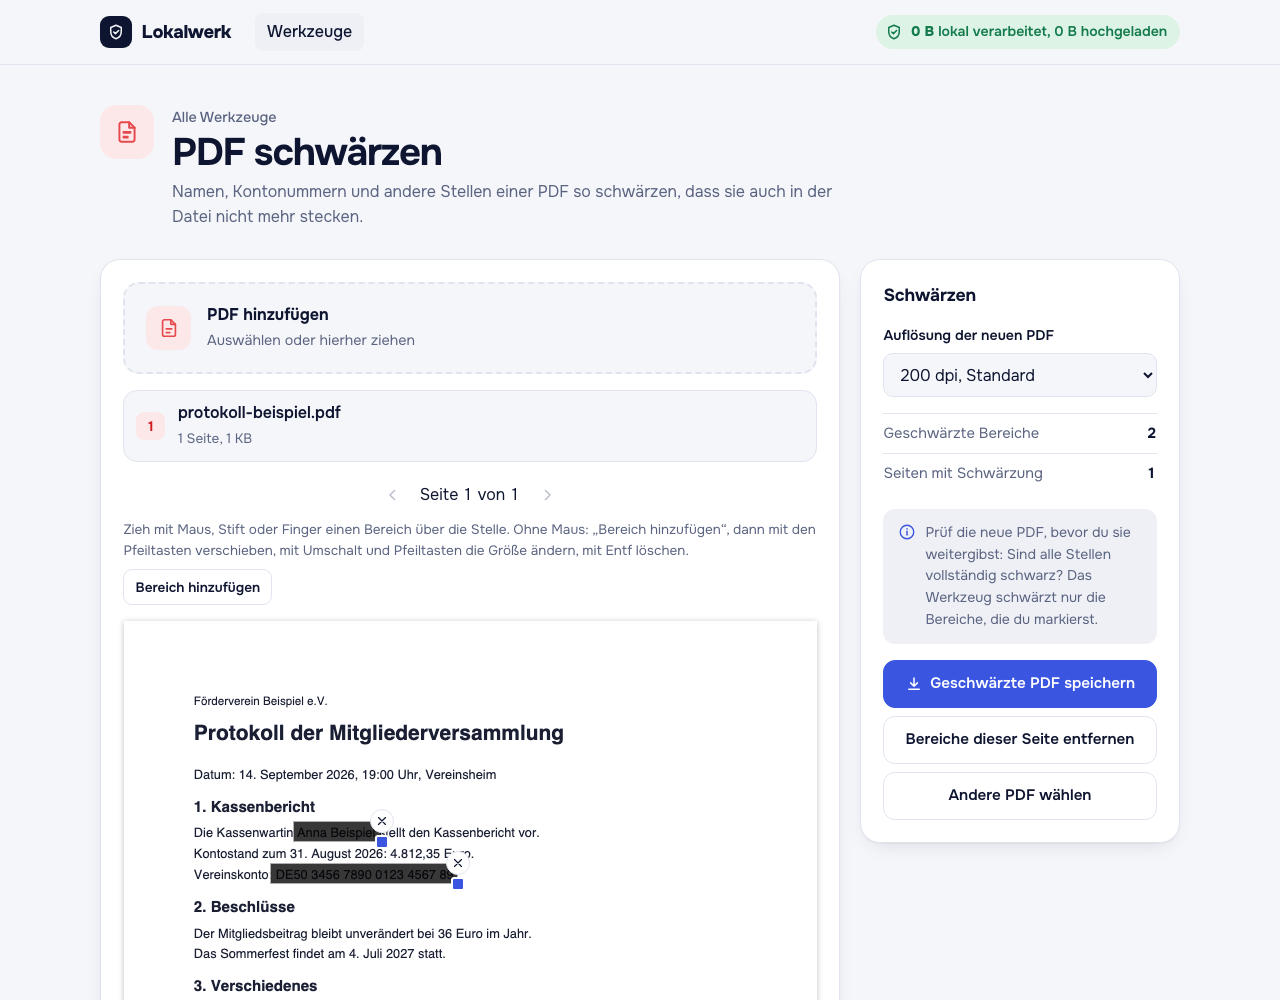
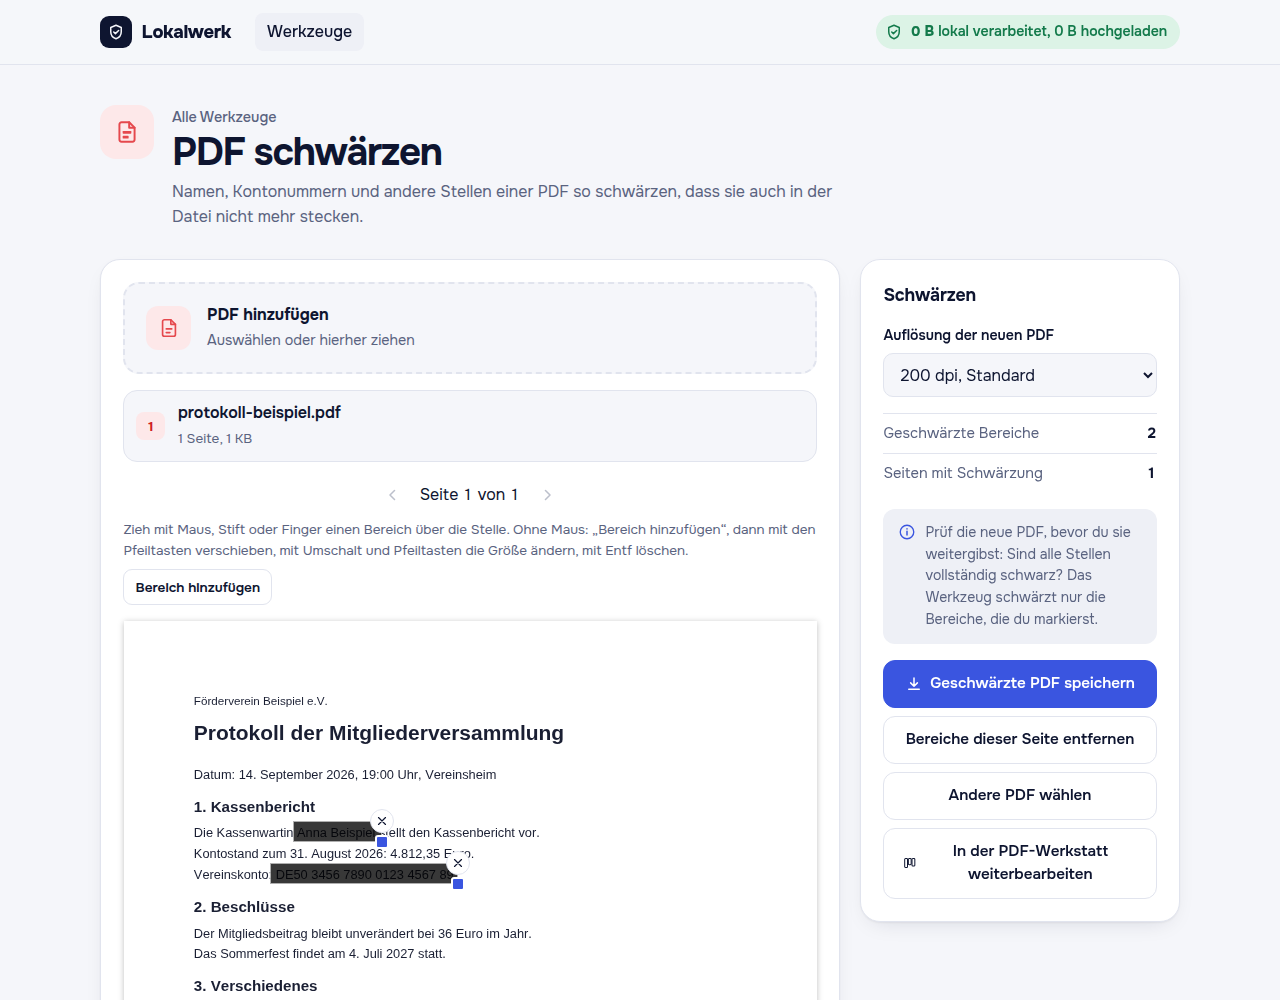
README: PDF-Werkstatt als Hauptwerkzeug, Screenshots erneuert
Neue Aufnahme der PDF-Werkstatt an erster Stelle im Abschnitt Screenshots,
hell und dunkel: drei Dokumente nebeneinander (Beispiel-PDFs aus dem Skript),
Umschalt-Auswahl von Seite 3 im Mietvertrag bis Seite 2 der Anlagen.
Startseite, /werkzeuge/ und PDF schwärzen neu aufgenommen (Karte der
Werkstatt, Knopf zur Werkstatt); die übrigen Bilder bleiben unverändert.
Größen wie bisher: 1280 px breit, einfache Pixeldichte, PNG.

screenshots.mjs bestätigt die Warnung beim Verlassen der Werkstatt wie das
Leistungsskript; chrome.mjs bekommt einen Klick mit Umschalt.

Claude-Session: https://claude.ai/code/session_01RTJKHEUfQYsWeNYKSB1B31

diff --git a/README.md b/README.md
@@ -2,10 +2,10 @@
 
 <picture>
   <source media="(prefers-color-scheme: dark)" srcset="docs/screenshots/startseite-dunkel.png">
-  <img src="docs/screenshots/startseite-hell.png" alt="Lokalwerk home page: headline &quot;Dateien bearbeiten, ohne sie hochzuladen.&quot; (edit files without uploading them), a drop zone for PDF, photo or Excel files, and a green badge &quot;0 B lokal verarbeitet, 0 B hochgeladen&quot; in the header" width="1280">
+  <img src="docs/screenshots/startseite-hell.png" alt="Lokalwerk home page: headline &quot;Dateien bearbeiten, ohne sie hochzuladen.&quot; (edit files without uploading them), a drop zone for PDF, photo or Excel files, a green badge &quot;0 B lokal verarbeitet, 0 B hochgeladen&quot; in the header, and the PDF workshop as a highlighted card above the tools" width="1280">
 </picture>
 
-Lokalwerk is a German-language website with 32 tools for everyday files: PDFs, photos, spreadsheets and address lists, SEPA payments, and a few small utilities. It is aimed at small businesses, freelancers, associations and administrations in Germany, Austria and Switzerland.
+Lokalwerk is a German-language website with 33 tools for everyday files: PDFs, photos, spreadsheets and address lists, SEPA payments, and a few small utilities. It is aimed at small businesses, freelancers, associations and administrations in Germany, Austria and Switzerland.
 
 **Core principle: every tool runs entirely in the browser. No file ever leaves the device.** There is no backend, no database, no account, no tracking and no cookies. After a tool page has loaded, it works offline.
 
@@ -25,7 +25,9 @@ The promise is backed by mechanisms that fail the build or block the browser, no
 
 ## Tools
 
-**PDF (12):** merge PDFs · split PDF · edit PDF pages (rotate, reorder, delete) · PDF to images · redact PDF (pages are rasterised, nothing of the original remains) · insert signature (as an image; not an electronic signature) · fill PDF forms · page numbers · stamp and watermark · remove PDF metadata · images to PDF · scan a document (camera via the file picker, four-corner perspective correction)
+**PDF workshop:** the main tool. Several PDFs and images open side by side, one column per document. Pages can be selected across documents (click, Shift and Ctrl/Cmd like a file manager), moved and copied between documents by dragging or with the keyboard, rotated, duplicated and deleted; blank pages can be inserted, documents split and merged. Every step can be undone. Documents are only lists of page references, so the loaded files are never changed; real PDFs are assembled in a Web Worker on export (one document, the selection, or all documents as ZIP). An unchanged document is saved as the original file. Every PDF tool below offers to continue in the workshop without reloading, with the file kept in memory.
+
+**PDF (12 more):** merge PDFs · split PDF · edit PDF pages (rotate, reorder, delete) · PDF to images · redact PDF (pages are rasterised, nothing of the original remains) · insert signature (as an image; not an electronic signature) · fill PDF forms · page numbers · stamp and watermark · remove PDF metadata · images to PDF · scan a document (camera via the file picker, four-corner perspective correction)
 
 **Photos and images (6):** resize photos · show and remove photo metadata · crop and rotate · pixelate faces and number plates (large blocks, no blur) · ID card copy (redaction and a permanent "KOPIE" overlay) · convert image format (JPEG, PNG, WebP)
 
@@ -37,14 +39,21 @@ The promise is backed by mechanisms that fail the build or block the browser, no
 
 ## Screenshots
 
-All screenshots show the German interface with example data from the project. They follow the viewer's light or dark mode on GitHub. The bank details are example numbers (see [`docs/beispiel-ibans.md`](docs/beispiel-ibans.md)); the landscape photos are drawn by the screenshot script itself.
+All screenshots show the German interface with example data from the project. They follow the viewer's light or dark mode on GitHub. The bank details are example numbers (see [`docs/beispiel-ibans.md`](docs/beispiel-ibans.md)); the sample PDFs and landscape photos are generated by the screenshot script itself.
+
+<picture>
+  <source media="(prefers-color-scheme: dark)" srcset="docs/screenshots/pdf-werkstatt-dunkel.png">
+  <img src="docs/screenshots/pdf-werkstatt-hell.png" alt="PDF workshop with three documents side by side (a tenancy agreement with 5 pages, attachments with 3 pages including a landscape page, an invoice with 2 pages); pages 3 to 5 of the agreement and pages 1 and 2 of the attachments are selected, and the overview on the right reads &quot;5 Seiten aus 2 Dokumenten&quot; (5 pages from 2 documents)" width="1280">
+</picture>
+
+The PDF workshop: each document is a column, and a Shift-click range runs across document boundaries, here from page 3 of the agreement to page 2 of the attachments. The coloured badges (A, B, C) show which file each page comes from, so mixed documents stay readable.
 
 <picture>
   <source media="(prefers-color-scheme: dark)" srcset="docs/screenshots/werkzeuge-suche-dunkel.png">
-  <img src="docs/screenshots/werkzeuge-suche-hell.png" alt="Tool overview with the search term &quot;pdf&quot; in the search field: 14 tools found, category filters, and the first cards of the PDF category" width="1280">
+  <img src="docs/screenshots/werkzeuge-suche-hell.png" alt="Tool overview with the search term &quot;pdf&quot; in the search field: 15 tools found, category filters, the PDF workshop as a wide first card of the PDF category, and the first regular cards" width="1280">
 </picture>
 
-The tool overview filters all 32 tools locally while you type; here the search for "pdf" finds 14 tools.
+The tool overview filters all 33 tools locally while you type; here the search for "pdf" finds 15 tools. The PDF workshop leads the PDF category as a wide card.
 
 <picture>
   <source media="(prefers-color-scheme: dark)" srcset="docs/screenshots/sepa-dunkel.png">
@@ -55,7 +64,7 @@ SEPA bulk transfer: an Excel or CSV list becomes a pain.001 file. Invalid rows a
 
 <picture>
   <source media="(prefers-color-scheme: dark)" srcset="docs/screenshots/pdf-schwaerzen-dunkel.png">
-  <img src="docs/screenshots/pdf-schwaerzen-hell.png" alt="PDF redaction page with a sample meeting protocol: two areas over a name and an IBAN are marked; on the right the resolution setting, the count of two redacted areas and the save button" width="1280">
+  <img src="docs/screenshots/pdf-schwaerzen-hell.png" alt="PDF redaction page with a sample meeting protocol: two areas over a name and an IBAN are marked; on the right the resolution setting, the count of two redacted areas, the save button and the button to continue in the PDF workshop" width="1280">
 </picture>
 
 Redacting a PDF: areas are shown semi-transparent while editing. The saved PDF is rebuilt from rasterised pages with solid black areas, so nothing of the original text remains in the file.
@@ -104,7 +113,7 @@ vendor/        SheetJS archive with checksum
 
 ## Quality
 
-- **Tests:** 1,101 tests in 75 files (Vitest). Every module in `src/core/` has unit tests.
+- **Tests:** 1,184 tests in 85 files (Vitest). Every module in `src/core/` has unit tests.
 - **Against official specifications:**
   - SEPA pain.001 files are validated against the German banking industry's XSD (`pain.001.001.09_GBIC_5.xsd`) with xmllint, and the text rules of the DFÜ Agreement, Annex 3 are tested separately. The schema and example files may not be redistributed, so they are kept locally in `.local-specs/`.
   - SHA-1 and SHA-256 against the NIST CAVP test vectors ([`tests/fixtures/nist/`](tests/fixtures/nist/)).
@@ -116,7 +125,7 @@ vendor/        SheetJS archive with checksum
 
 ## How it was built
 
-This project was developed with [Claude Code](https://claude.com/claude-code) under the rules in [`AGENTS.md`](AGENTS.md) (no network requests at runtime, no CDNs, no tracking, official sources only, no invented standards, small steps with review). Plans, decisions and approvals are recorded in [`plan.md`](plan.md) and [`plan-phase2.md`](plan-phase2.md); user-facing texts go through review and approval, with their status in [`docs/texte-zur-freigabe.md`](docs/texte-zur-freigabe.md). Legal wording is not written by the agent.
+This project was developed with [Claude Code](https://claude.com/claude-code) under the rules in [`AGENTS.md`](AGENTS.md) (no network requests at runtime, no CDNs, no tracking, official sources only, no invented standards, small steps with review). Plans, decisions and approvals are recorded in [`plan.md`](plan.md), [`plan-phase2.md`](plan-phase2.md) and [`plan-phase3.md`](plan-phase3.md) (PDF workshop); user-facing texts go through review and approval, with their status in [`docs/texte-zur-freigabe.md`](docs/texte-zur-freigabe.md). Legal wording is not written by the agent.
 
 ## Running locally
 
@@ -131,7 +140,7 @@ npm run preview   # serve dist/ with the production security headers
 npm run screenshots  # rebuild and regenerate docs/screenshots/ (needs Google Chrome)
 ```
 
-Without the licensed specification files in `.local-specs/` (see [`docs/lokale-spezifikationen.md`](docs/lokale-spezifikationen.md)), 1,086 tests run and the tests that depend on those files are skipped with a clear notice. The GitHub Actions workflow runs `npm run check` the same way.
+Without the licensed specification files in `.local-specs/` (see [`docs/lokale-spezifikationen.md`](docs/lokale-spezifikationen.md)), 1,171 tests run and the tests that depend on those files are skipped with a clear notice. The GitHub Actions workflow runs `npm run check` the same way.
 
 ## Status
 
@@ -145,4 +154,4 @@ All rights reserved. The code is published for viewing only; see [`LICENSE`](LIC
 
 ## Deutsch
 
-Lokalwerk ist eine Website mit 32 Werkzeugen für PDFs, Fotos, Tabellen, SEPA-Zahlungen und Alltägliches. Alle Werkzeuge laufen vollständig im Browser; keine Datei verlässt das Gerät. Durchgesetzt wird das technisch: Content-Security-Policy mit `connect-src 'none'`, ESLint-Verbote für Netzwerk und Browser-Speicher, Build-Prüfungen (`check-dist`, `chunk-guard`, Lizenzprüfung) und eine Metadaten-Prüfung vor dem Speichern. Entwickelt mit Claude Code nach den Regeln in `AGENTS.md`, mit Plänen und Freigaben in `plan.md` und `plan-phase2.md`. Noch nicht live, Lokalwerk Pro ist nicht umgesetzt. Der Code ist nur zur Ansicht veröffentlicht (siehe `LICENSE`); Beiträge werden derzeit nicht angenommen.
+Lokalwerk ist eine Website mit 33 Werkzeugen für PDFs, Fotos, Tabellen, SEPA-Zahlungen und Alltägliches; das Hauptwerkzeug ist die PDF-Werkstatt, in der mehrere PDFs und Bilder nebeneinander bearbeitet und neu zusammengestellt werden. Alle Werkzeuge laufen vollständig im Browser; keine Datei verlässt das Gerät. Durchgesetzt wird das technisch: Content-Security-Policy mit `connect-src 'none'`, ESLint-Verbote für Netzwerk und Browser-Speicher, Build-Prüfungen (`check-dist`, `chunk-guard`, Lizenzprüfung) und eine Metadaten-Prüfung vor dem Speichern. Entwickelt mit Claude Code nach den Regeln in `AGENTS.md`, mit Plänen und Freigaben in `plan.md` und `plan-phase2.md`. Noch nicht live, Lokalwerk Pro ist nicht umgesetzt. Der Code ist nur zur Ansicht veröffentlicht (siehe `LICENSE`); Beiträge werden derzeit nicht angenommen.
